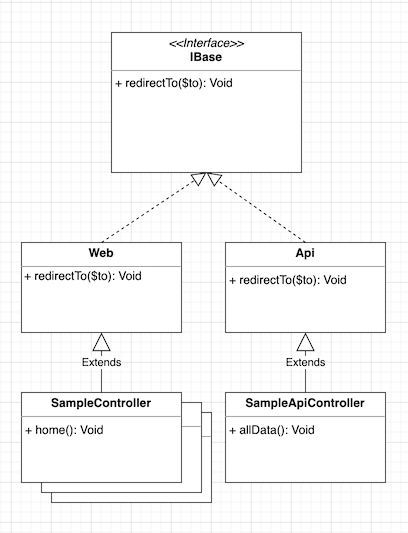
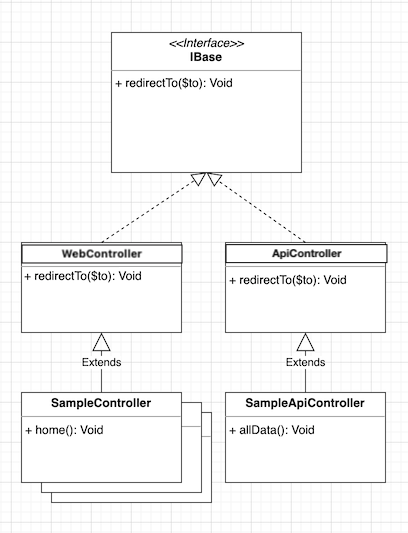
Migration version 2023 MVC

Changed region(s): [[0.5294, 0.4503, 0.9706, 0.5103], [0.0294, 0.4503, 0.4706, 0.5103]]

diff --git a/tp/php/mvc/tp1.1.md b/tp/php/mvc/tp1.1.md
@@ -15,6 +15,12 @@ Comme précisé dans le cours et dans nos échanges, la structure « MVC » est 
 ::: tip C'est important
 Le point d'introduction est important. Savoir justifier d'une solution est tout aussi important que la solution en elle-même. Si vous décider décider d'utiliser ma structure dans d'autres développements vous devez le faire avec conviction et pas juste « parceque ».
 
+Des changements mineurs ont été ajoutés à la structure en 2022/2023 :
+
+- Le système de « template » n'affiche plus par défaut la page. Il ne faut pas oublier le return.
+- L'accès à base de données est maintenant « Lazy », la connexion à celle-ci ne sera faite que lors de la **première requête**.
+- Le connecteur de base de données est maintenant partagé avec l'ensemble des modèles.
+
 Ceci étant dit, nous pouvons continuer 🚀 !
 :::
 
@@ -167,7 +173,7 @@ Prenez **dès maintenant** l'habitude de mettre votre configuration (IP, Serveur
 
 ### Télécharger le code source
 
-Le projet de base est disponible [à l'adresse suivante en cliquant ici](https://github.com/c4software/mini-mvc-sample/archive/refs/tags/1.8.zip)
+Le projet de base est disponible [à l'adresse suivante en cliquant ici](https://github.com/c4software/mini-mvc-sample/archive/refs/tags/2.0.zip)
 
 ::: tip C'est un projet vide
 Même si celui-ci contient à première vue « beaucoup de fichiers », le projet vous avez téléchargé est bien un projet vide.
@@ -266,6 +272,10 @@ Le routeur est un « composant » très important du web moderne. Il va nous per
 
 Vu que c'est la première fois, nous allons le faire ensemble… N'hésitez pas à poser vos questions !
 
+Voilà en vidéos ce que vous allez réaliser :
+
+<iframe width="560" height="315" src="https://www.youtube-nocookie.com/embed/78_oUJrqd9c" title="YouTube video player" frameborder="0" allow="accelerometer; autoplay; clipboard-write; encrypted-media; gyroscope; picture-in-picture" allowfullscreen></iframe>
+
 ### Créer la méthode
 
 Nous allons dans un premier temps créer une méthode dans le contrôleur `SampleWeb.php`, pour le contenu pas grand-chose pour l'instant. Vous pouvez vous inspirer du contenu de la méthode `home()`.
@@ -273,7 +283,7 @@ Nous allons dans un premier temps créer une méthode dans le contrôleur `Sampl
 ```php
 function about()
 {
-    Template::render("views/global/about.php");
+    return Template::render("views/global/about.php");
 }
 ```
 
@@ -294,13 +304,13 @@ Nous avons ajouté une page, cependant, cette page est relativement « statique 
 Si nous reprenons l'exemple précédent :
 
 ```php
-Template::render("views/global/about.php", array());
+return Template::render("views/global/about.php", array());
 ```
 
 Combien de variables passons-nous ? Aucune, pour la suite, je vous propose d'ajouter une première variable :
 
 ```php
-Template::render("views/global/about.php", array("titre" => "À Propos"));
+return Template::render("views/global/about.php", array("titre" => "À Propos"));
 ```
 
 Puis modifier votre vue pour y ajouter l'usage de votre variable :
@@ -320,7 +330,7 @@ Pour vérifier que vous avez bien compris la procédure. Je vous laisse ajouter 
 Besoin d'aide ? Voilà un indice :
 
 ```php
-Template::render("views/global/about.php", array("titre" => "Votre titre !", "date" => …));
+return Template::render("views/global/about.php", array("titre" => "Votre titre !", "date" => …));
 ```
 
 C'est à vous :
@@ -459,7 +469,7 @@ Vu que c'est la première fois je vous donne du code, mais attention à bien com
 
 ```php
 function marquerCommeTermine($id){
-    $stmt = $this->pdo->prepare("UPDATE todos SET termine = 1 WHERE id = ?");
+    $stmt = $this->getPdo()->prepare("UPDATE todos SET termine = 1 WHERE id = ?");
     $stmt->execute([$id]);
 }
 ```
@@ -493,7 +503,7 @@ class TodoModel extends SQL
     }
 
     function marquerCommeTermine($id){
-        $stmt = $this->pdo->prepare("UPDATE todos SET termine = 1 WHERE id = ?");
+        $stmt = $this->getPdo()->prepare("UPDATE todos SET termine = 1 WHERE id = ?");
         $stmt->execute([$id]);
     }
 }
@@ -650,7 +660,7 @@ namespace controllers;
 use controllers\base\Web;
 use models\TodoModel;
 
-class TodoWeb extends Web
+class TodoWeb extends WebController
 {
     private $todoModel;
 
@@ -667,7 +677,7 @@ class TodoWeb extends Web
 La première méthode que nous allons créer est celle de la liste. Elle se nommera `liste()`, cette méthode sera automatiquement appelée via le `routeur` à **chaque visite d'un utilisateur**. L'objectif de cette méthode est :
 
 - Récupérer l'ensemble des TODO (Array) actuellement en base via la méthode `getAll()` du TodoModel modèle.
-- Afficher votre `vue` via un `Template::render`.
+- Afficher votre `vue` via un `return Template::render`.
 
 ::: tip Toujours la même forme
 
@@ -677,7 +687,7 @@ Vous allez rapidement vous apercevoir que la structure de base est toujours la m
     function maMethodeQueJaiCopierColler()
     {
         // Pourquoi j'ai copier / coller ceci ? C'est un exemple seulement
-        Template::render("views/global/home.php");
+        return Template::render("views/global/home.php");
     }
 ```
 
@@ -691,7 +701,7 @@ Dans notre cas, la méthode va ressembler à :
 function liste()
     {
         $todos = $this->todoModel->getAll(); // Récupération des TODOS présents en base.
-        Template::render("views/todos/liste.php", array('todos' => $todos)); // Affichage de votre vue.
+        return Template::render("views/todos/liste.php", array('todos' => $todos)); // Affichage de votre vue.
     }
 ```
 

diff --git a/tp/php/mvc/tp1.md b/tp/php/mvc/tp1.md
@@ -271,7 +271,7 @@ namespace controllers;
 use controllers\base\Web;
 use utils\Template;
 
-class MonControleur extends Web
+class MonControleur extends WebController
 {
     // Méthode d'exemple
     function methodeDExemple()
@@ -281,7 +281,7 @@ class MonControleur extends Web
 }
 ```
 
-Comme vous pouvez le constater ici pas énormément de code, en effet une partie de la complexité est encapsulée dans l'héritage (`extends Web`).
+Comme vous pouvez le constater ici pas énormément de code, en effet une partie de la complexité est encapsulée dans l'héritage (`extends WebController`).
 
 Un contrôleur est donc une classe, avec un ensemble de méthodes technique permettant de réaliser des opérations. La ligne :
 
@@ -326,7 +326,7 @@ Les différentes relations peuvent être représentées avec l'UML suivant :
 
 ![UML Relation](./res/uml_composition.png)
 
-La méthode `redirectTo` permet de gérer la redirection vers une autre ressource. Rien de bien compliqué c'est un simple appel de la méthode `header` de PHP. Je vous laisse regarder le code dans `controller/base/web.php`.
+La méthode `redirectTo` permet de gérer la redirection vers une autre ressource. Rien de bien compliqué c'est un simple appel de la méthode `header` de PHP. Je vous laisse regarder le code dans `controller/base/WebController.php`.
 
 ::: tip Be curious !
 Ne prenez pas automatiquement pour acquis ce que je vous écris. Allez voir le code source du projet afin de constater par vous-même ce que je viens de dire / écrire.
@@ -409,7 +409,7 @@ class DBVideo extends SQL
         // Utilisation d'une query à la place d'un simple getOne car la requête
         // est réalisé sur un champ différent que l'ID de la table.
 
-        $stmt = $this->pdo->prepare("SELECT * FROM video WHERE videoId = ?");
+        $stmt = $this->getPdo()->prepare("SELECT * FROM video WHERE videoId = ?");
         $stmt->execute([$videoId]);
         return $stmt->fetch(\PDO::FETCH_ASSOC);
     }
@@ -573,7 +573,7 @@ class Video extends SQL
         // utilise la connexion BDD pour réaliser les requêtes vers les données
         // ici retourne l'ensemble des vidéos de type accessibles à tous (public)
 
-        $stmt = $this->pdo->prepare("SELECT * FROM video WHERE public = 1");
+        $stmt = $this->getPdo()->prepare("SELECT * FROM video WHERE public = 1");
         $stmt->execute();
         return $stmt->fetch(\PDO::FETCH_ASSOC);
     }
@@ -583,7 +583,7 @@ class Video extends SQL
         // Utilisation d'une query à la place d'un simple getOne car la requête
         // est réalisé sur un champs différent que l'ID de la table.
 
-        $stmt = $this->pdo->prepare("SELECT * FROM video WHERE videoId = ?");
+        $stmt = $this->getPdo()->prepare("SELECT * FROM video WHERE videoId = ?");
         $stmt->execute([$videoId]);
         return $stmt->fetch(\PDO::FETCH_ASSOC);
     }
@@ -606,7 +606,7 @@ namespace controllers;
 use controllers\base\Web;
 use utils\Template;
 
-class VotreControleur extends Web
+class VotreControleur extends WebController
 {
     function methodeDExemple()
     {
@@ -616,7 +616,7 @@ class VotreControleur extends Web
 ```
 
 - Le `namespace controllers;` permet de structure votre code, et permettra via l'auto-loader l'import automatique de vos classes.
-- `class VotreControleur extends Web` indique que votre classe hérite de Web (une page client). Elle possèdera donc automatiquement la méthode (accessible via `$this`) :
+- `class VotreControleur extends WebController` indique que votre classe hérite de Web (une page client). Elle possèdera donc automatiquement la méthode (accessible via `$this`) :
   - `redirectTo`
 
 ::: tip Et c'est tout !
